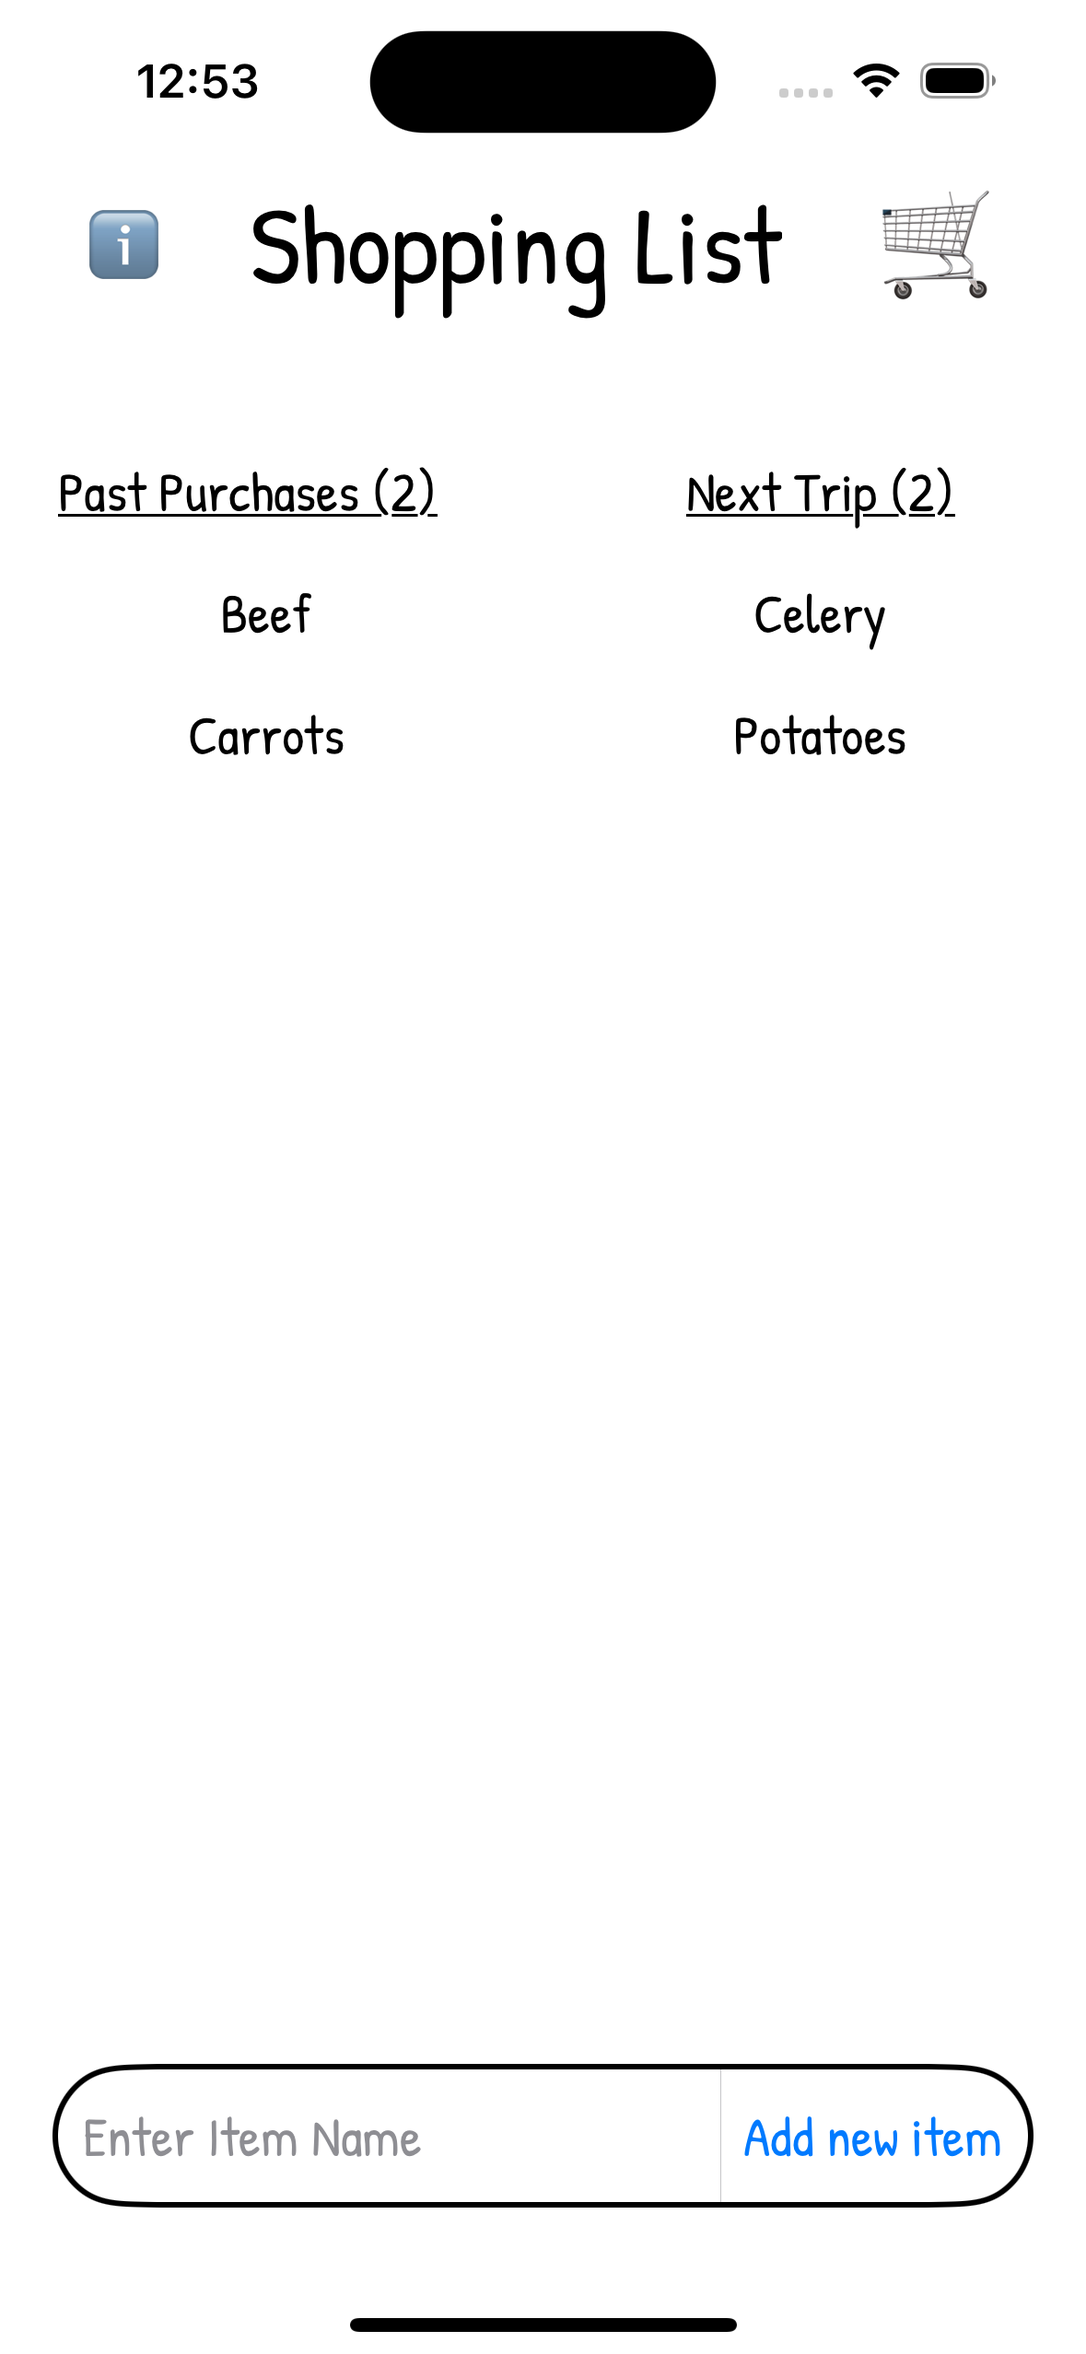
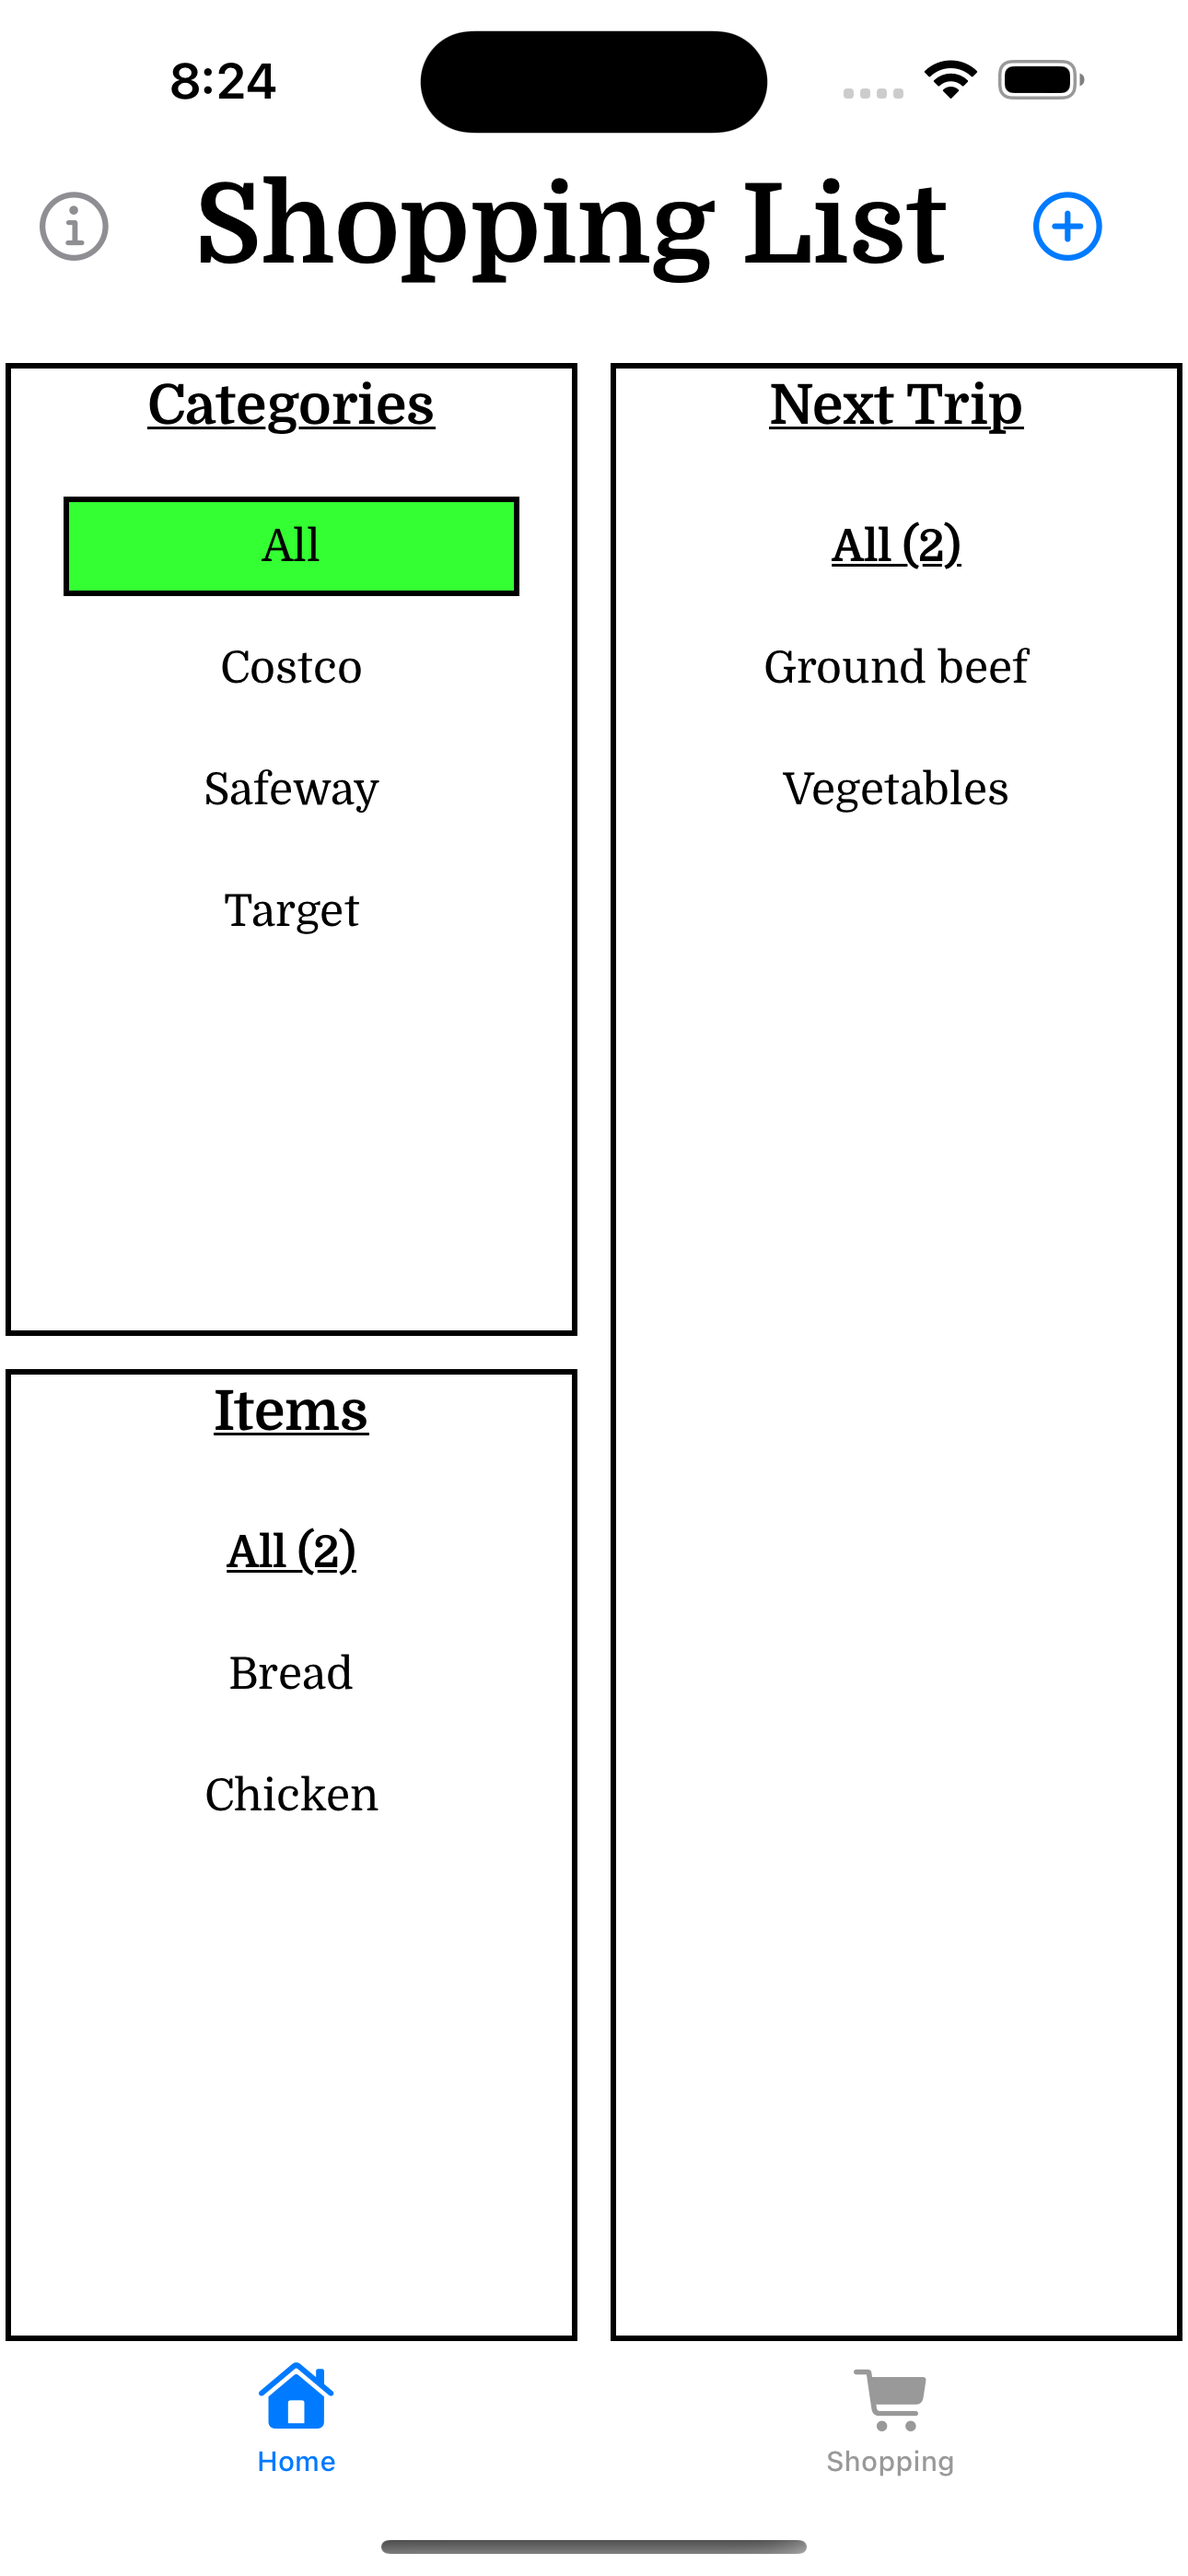
update shopping list section

diff --git a/newindex.js b/newindex.js
@@ -41,7 +41,7 @@ let projectCards = [
         "Easiest Shopping List",
         "December 2023 - Current",
         ["./media/sl-home.png", "./media/sl-shopping.png"],
-        "A shopping list app that allows users to create a shopping list and cross things off the list after purchasing them at the store. This app stores the previous items added to the list, allowing users to re-add items to the list with just a tap.",
+        "A shopping list app that allows users to create a shopping list and cross things off the list after purchasing them at the store. This app stores the previous items added to the list, allowing users to re-add items to the list with just a tap. The newest version allows users to create categories for their items to organize them for ease of use.",
         ["Swift", "SwiftUI", "Core Data"]
     )
    
@@ -80,8 +80,9 @@ projectCards.forEach(project => {
     let projectTechnologies = document.createElement("p");
     let technologiesString = "Technologies Used:";
     (project.technologies).forEach(technology => {
-        technologiesString += ` ${technology}`;
+        technologiesString += ` ${technology},`;
     });
+    technologiesString = technologiesString.slice(0, -1);
     projectTechnologies.innerHTML = technologiesString;
 
     projectsSection.appendChild(card);
